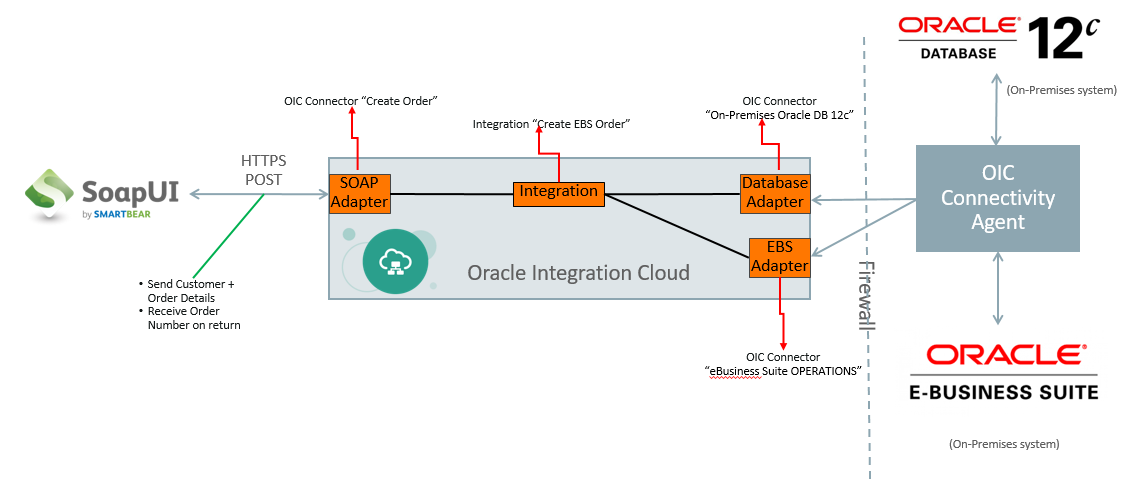
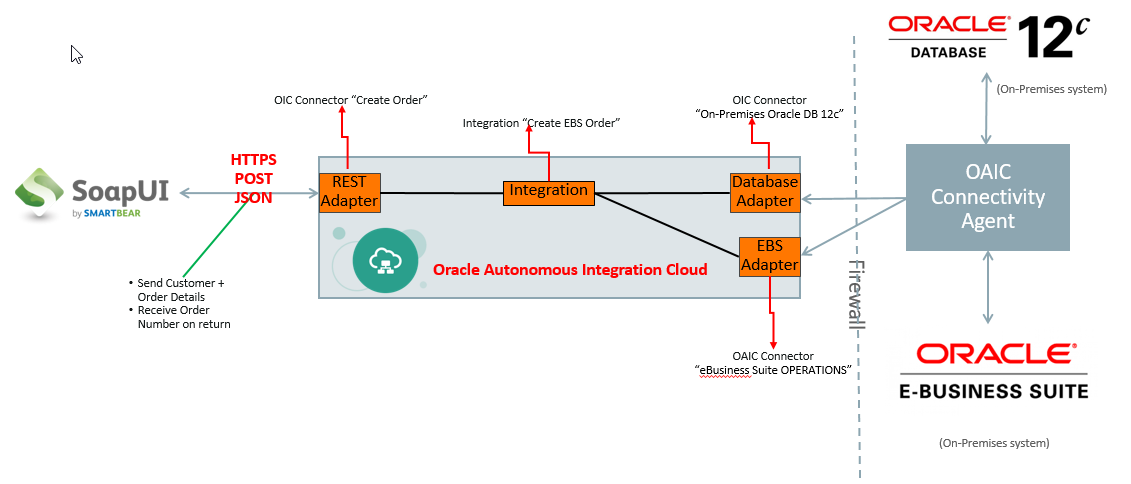
Changes to HOME page

diff --git a/Home.md b/Home.md
@@ -48,7 +48,7 @@ The ICS integration that we'll be working with is shown in the following picture
 
 Here is a description of what is happening with this integration:
 
-SoapUI will be used to test the exposed Web Service endpoint of the ICS integration called *UserXX Create EBS Order* (where XX will be the Number assigned by the Instructor).  This integration has 3 connections.  The incoming message is received by the incoming *UserXX SOAP* Soap Connection.  The *UserXX Create EBS Order* orchestration makes 1 query into the database using the *UserXX Oracle DB 12c* connection to get details needed to create an order.  The orchestration finally uses the *UserXX EBS OPERATIONS* EBS Adapter connection for creating the order in EBS.  After the order is created in EBS, the Order Number is returned to the calling web service.
+SoapUI will be used to test the exposed REST endpoint of the OAIC integration called *UserXX Create EBS Order* (where XX will be the Number assigned by the Instructor).  This integration has 3 connections.  The incoming message is received by the incoming *UserXX REST" REST Connection.  The *UserXX Create EBS Order* orchestration makes 1 query into the database using the *UserXX Oracle DB 12c* connection to get details needed to create an order.  The orchestration finally uses the *UserXX EBS OPERATIONS* EBS Adapter connection for creating the order in EBS.  After the order is created in EBS, the Order Number is returned to the calling web service.
 
 ## Get Started: 
 Open the navigation menu using the hamburger icon in the upper left of the menu bar to choose a lab guide and get started.
